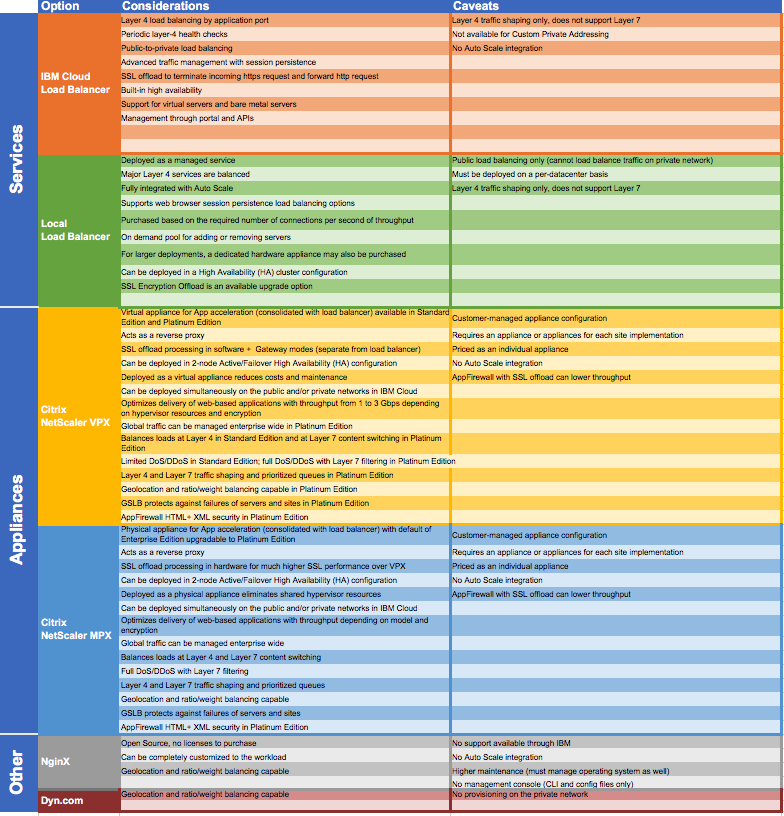
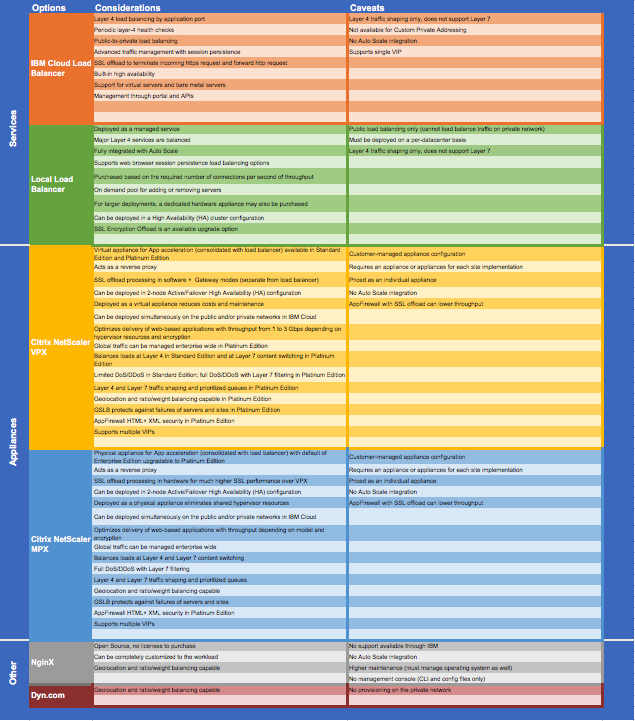
complete options

diff --git a/README.md b/README.md
@@ -42,24 +42,50 @@ Based on the pros and cons presented in Table 1, Indie selected the Citrix NetSc
 
 The following links will take you to the Considerations and Caveats for each option within a design component category:
 
-* ![Compute](#compute)
-* ![Load Balancer](#load_balancer)
-* Firewall
-* Virtual Private Network (VPN)
-* Compute (servers)
-* Storage
-* Backup
-* Disaster Recovery (DR)
-* Reverse Proxy
+* ![Compute Options](#compute)
+* ![Storage Options](#storage)
+* ![Backup Options](#backup)
+* ![Disaster Recovery Options](#disaster_recovery)
+* ![Firewall Options](#firewall)
+* ![VPN Options](#vpn)
+* ![Load Balancer Options](#load_balancer)
+* ![Reverse Proxy Options](#reverse_proxy)
+* ![Direct Link Options](#direct_link)
 
-### <a name="compute"></a> Compute
+### <a name="compute"></a> Compute Options
 
-#### Considerations and Caveats
+![Compute](/images/rainbow_tool_compute.png)
 
-![Compute Options](/images/rainbow_tool_compute.png)
+### <a name="storage"></a> Storage Options
 
-### <a name="load_balancer"></a> Load Balancer
+![Storage](/images/rainbow_tool_storage.png)
 
-#### Considerations and Caveats
+### <a name="backup"></a> Backup Options
+
+![Backup Options](/images/rainbow_tool_backup.png)
+
+### <a name="diaster_recover"></a> Disaster Recovery Options
+
+![Disastery Recovery Options](/images/rainbow_tool_disaster_recovery.png)
+
+### <a name="firewall"></a> Firewall Options
+
+![Firewall Options](/images/rainbow_tool_firewall.png)
+ 
+### <a name="vpn"></a> VPN Options
+
+![VPN Options](/images/rainbow_tool_vpn.png)
+
+### <a name="load_balancer"></a> Load Balancer Options
 
 ![Load Balancer Options](/images/rainbow_tool_load_balancer.png)
+
+### <a name="reverse_proxy"></a> Reverse Proxy Options
+
+![Reverse Proxy Options](/images/rainbow_tool_reverse_proxy.png)
+
+### <a name="direct_link"></a> Direct Link Options
+
+![Direct Link Options](/images/rainbow_tool_direct_link.png)
+
+
